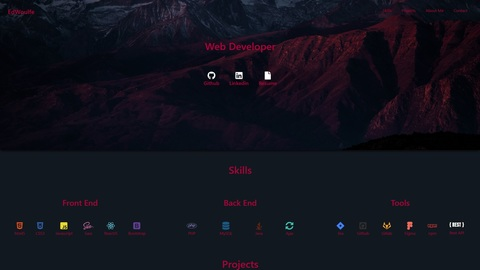
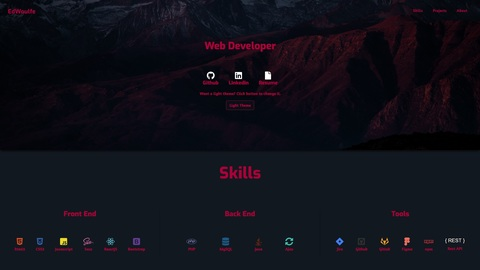
Added new image and gif for personal portfolio, descriptions redone, styling for themes.

diff --git a/src/Components/Projects/projects-container.jsx b/src/Components/Projects/projects-container.jsx
@@ -12,11 +12,15 @@ class ProjectsContainer extends Component {
     projects: {
       bdoProfit: {
         title: "BDO Profit",
-        liveLink: "http://www.bdoprofit.com",
+        liveLink: "https://www.bdoprofit.com",
         codeLink: "https://github.com/ejwoulfe/BDOProfit",
         image: bdoprofitStatic,
-        description:
-          "BDO Profit is a tool to help calculate a recipe's costs and profits.The database was built using webscraping(from a website that gives permission) and holds all of the games recipes.Each recipe has their own materials.The user will enter in the costs of the materials and the sale price of the recipe once crafted.The website will then calculate if its profitable or not.",
+        description: [
+          "BDO Profit is based off the MMORPG Black Desert Online. The website is a tool for players who need help calculating the costs and profits of an ingame recipe or craft.",
+          "The user searches for their desired recipe, either using the search bar or navigating the professions recipe table/database. Once the desired recipe is found a page will display all the required materials and their quanities.",
+          "The user will enter the costs and the market price of the recipe into the corresponding input fields and the website will do all the calculations for them.",
+          "The database was created via webscraping from a website which allows permission. Each recipe has a name, image, submaterials, and the corresponding quantities."
+        ],
         languages: [
           "HTML",
           "CSS",
@@ -32,18 +36,21 @@ class ProjectsContainer extends Component {
         liveLink: "https://pensive-visvesvaraya-5f7d28.netlify.com/",
         codeLink: "https://github.com/ejwoulfe/lol-champions",
         image: lolchampionsStatic,
-        description1:
-          "This website displays data on the games champions. This data consists of the champions stats, abilities, and skins. All taken from the offical Riot API.",
-        description2:
-          " Other data retrieved from the API include: which champions are free to play this week and which champions are being played the most in a given ranked tier.",
+        description: [
+          "LoL Champions is based off the popular MOBA game, League of Legends. This website is used to help a beginner player get a better understanding of the game and its champions.",
+          "It shows which champions are free that week, which of them are being most played in all tiers, and detailed information about any champion.",
+          "All of this information was retrieved by using the offical Riot API."
+        ],
         languages: ["ReactJS", "React-Router", "APIs", "Bootstrap", "Sass"]
       },
       personalPortfolio: {
         title: "Personal Portfolio",
-        liveLink: "http://edwoulfe.com",
+        liveLink: "https://edwoulfe.com",
         codeLink: "https://github.com/ejwoulfe/personal_portfolio",
         image: personalPortfolioStatic,
-        description: "Personal Website to display all my projects and links.",
+        description: [
+          "This is my own personal website, currently used as a hub for all my projects, a bit about me, and contact information. Currently offered in a light or dark theme, Enjoy!"
+        ],
         languages: ["ReactJS", "Bootstrap", "Sass"]
       }
     }

diff --git a/src/Components/Jumbotron/change-color-button.jsx b/src/Components/Jumbotron/change-color-button.jsx
@@ -24,9 +24,11 @@ class ChangeColorTheme extends Component {
         "jumbotron_container"
       ).style.backgroundImage = `url(${lightBackgroundImage})`;
       document.getElementById("jumbotron_container").style.color = "white";
-      document.getElementById("change_theme_button").style.backgroundColor =
-        "white";
-      document.getElementById("change_theme_button").style.color = "#19171C";
+
+      for (var i = 0; i < document.getElementsByClassName("btn").length; i++) {
+        document.getElementsByClassName("btn")[i].style.color = "white";
+        document.getElementsByClassName("btn")[i].style.borderColor = "white";
+      }
     } else {
       document.getElementsByClassName("App")[0].style.backgroundColor =
         "#111820";
@@ -35,10 +37,11 @@ class ChangeColorTheme extends Component {
         "jumbotron_container"
       ).style.backgroundImage = `url(${darkBackgroundImage})`;
       document.getElementById("jumbotron_container").style.color = "#b2123b";
-      document.getElementById("change_theme_button").style.backgroundColor =
-        "#19171C";
 
-      document.getElementById("change_theme_button").style.color = "#b2123b";
+      for (var j = 0; j < document.getElementsByClassName("btn").length; j++) {
+        document.getElementsByClassName("btn")[j].style.borderColor = "#b2123b";
+        document.getElementsByClassName("btn")[j].style.color = "#b2123b";
+      }
     }
   }
   componentDidMount() {
@@ -48,10 +51,11 @@ class ChangeColorTheme extends Component {
     document.getElementsByClassName("App")[0].style.backgroundColor = "#FFFFFF";
     document.getElementsByClassName("App")[0].style.color = "#19171C";
 
-    document.getElementById("jumbotron_container").style.color = "#19171C";
-    document.getElementById("change_theme_button").style.backgroundColor =
-      "white";
-    document.getElementById("change_theme_button").style.color = "#19171C";
+    for (var k = 0; k < document.getElementsByClassName("btn").length; k++) {
+      document.getElementsByClassName("btn")[k].style.color = "white";
+      document.getElementsByClassName("btn")[k].style.borderColor = "white";
+    }
+
     document.getElementById("jumbotron_container").style.color = "white";
   }
 
@@ -66,6 +70,7 @@ class ChangeColorTheme extends Component {
           onClick={this.handleChangeTheme}
           variant="link"
           id="change_theme_button"
+          className="btn"
         >
           {this.state.lightTheme ? "Dark Theme" : "Light Theme"}
         </Button>

diff --git a/src/Components/Projects/projects.scss b/src/Components/Projects/projects.scss
@@ -1,5 +1,3 @@
-$base-color: #b2123b;
-
 #projects_container {
   text-align: center;
   height: auto;
@@ -18,14 +16,17 @@ $base-color: #b2123b;
     clip-path: polygon(0 0, 78% 0, 98% 100%, 0% 100%);
     background-color: #32266f27;
     .btn {
-      background-color: $base-color;
-      border-color: $base-color;
-      color: white;
       margin-top: 20px;
       margin-right: 10px;
       width: 115px;
+      text-decoration: none;
+      background: linear-gradient(to right, #ee90a7 50%, #11182065 50%);
+      background-size: 200% 100%;
+      background-position: right bottom;
+      transition: all 0.5s ease-out;
       &:hover {
-        background-color: #991133;
+        box-shadow: inset 0 0 0 2em var(--hover);
+        background-position: left bottom;
       }
     }
 
@@ -67,7 +68,7 @@ $base-color: #b2123b;
   }
   #personal_portfolio_image {
     &:hover {
-      // background: url("../../Assets/lol_champions.gif") !important;
+      background: url("../../Assets/personal_portfolio.gif") !important;
       background-repeat: no-repeat !important;
       background-position: center !important;
     }

diff --git a/src/Components/Projects/lol-champions.jsx b/src/Components/Projects/lol-champions.jsx
@@ -9,6 +9,9 @@ class LolChampionsProject extends Component {
     const builtWithList = this.props.project.languages.map(language => {
       return <li key={language}>{language}</li>;
     });
+    const description = this.props.project.description.map(paragraph => {
+      return <p key={paragraph}>{paragraph}</p>;
+    });
     return (
       <Fade left>
         <React.Fragment>
@@ -16,10 +19,7 @@ class LolChampionsProject extends Component {
             <div className="col-2 filler_col" />
             <div id="first_project_description" className="col-lg-4 col-xs-6">
               <h4>{this.props.project.title}</h4>
-              <div className="description_container">
-                <p>{this.props.project.description1}</p>
-                <p>{this.props.project.description2}</p>
-              </div>
+              <div className="description_container">{description}</div>
               <div id="buttons_container">
                 <a
                   href={this.props.project.codeLink}

diff --git a/src/Components/Projects/personal-portfolio.jsx b/src/Components/Projects/personal-portfolio.jsx
@@ -9,6 +9,9 @@ class PersonalPortfolioProject extends Component {
     const builtWithList = this.props.project.languages.map(language => {
       return <li key={language}>{language}</li>;
     });
+    const description = this.props.project.description.map(paragraph => {
+      return <p key={paragraph}>{paragraph}</p>;
+    });
     return (
       <Fade left>
         <React.Fragment>
@@ -16,9 +19,7 @@ class PersonalPortfolioProject extends Component {
             <div className="col-2 filler_col" />
             <div id="third_project_description" className="col-lg-4 col-xs-6">
               <h4>{this.props.project.title}</h4>
-              <div className="description_container">
-                <p>{this.props.project.description}</p>
-              </div>
+              <div className="description_container">{description}</div>
               <div id="buttons_container">
                 <a
                   href={this.props.project.codeLink}

diff --git a/src/Components/Projects/bdo-profit.jsx b/src/Components/Projects/bdo-profit.jsx
@@ -9,6 +9,9 @@ class BdoProfitProject extends Component {
     const builtWithList = this.props.project.languages.map(language => {
       return <li key={language}>{language}</li>;
     });
+    const description = this.props.project.description.map(paragraph => {
+      return <p key={paragraph}>{paragraph}</p>;
+    });
     return (
       <Fade right>
         <React.Fragment>
@@ -17,9 +20,7 @@ class BdoProfitProject extends Component {
 
             <div id="second_project_description" className="col-lg-4 col-sm-12">
               <h4>{this.props.project.title}</h4>
-              <div className="description_container">
-                <p>{this.props.project.description}</p>
-              </div>
+              <div className="description_container">{description}</div>
               <div id="buttons_container">
                 <a
                   href={this.props.project.codeLink}

diff --git a/src/Components/Jumbotron/jumbotron.scss b/src/Components/Jumbotron/jumbotron.scss
@@ -8,6 +8,15 @@
   box-shadow: 0px 7px 9px -4px rgba(0, 0, 0, 0.81);
   #change_theme_button {
     text-decoration: none;
+    background: linear-gradient(to right, #ee90a7 50%, #11182065 50%);
+    background-size: 200% 100%;
+    background-position: right bottom;
+    transition: all 0.5s ease-out;
+
+    &:hover {
+      box-shadow: inset 0 0 0 2em var(--hover);
+      background-position: left bottom;
+    }
   }
   #overlay {
     background-color: rgba($color: #000000, $alpha: 0.55);
@@ -33,6 +42,7 @@
         a {
           height: 100%;
           &:hover {
+            color: #ee90a7;
             svg {
               transform: scale(1.4);
             }

diff --git a/src/Components/About/about.jsx b/src/Components/About/about.jsx
@@ -12,8 +12,9 @@ class About extends Component {
             in Computer Science.
           </p>
           <p>
-            During my studies I found my passion for web development. Since then
-            I have been constantly learning about the web and the skills needed.
+            During my studies I discovered my passion for web development. Ever
+            since, I have been studying and practicing in order to expand my web
+            dev skills and knowledge.
           </p>
           <p>
             I am excited to keep learning more, improving my skills and working

diff --git a/src/Components/Navigation/navigation.scss b/src/Components/Navigation/navigation.scss
@@ -28,6 +28,7 @@
         padding: 20px;
         &:hover {
           cursor: pointer;
+          color: #ee90a7;
         }
       }
     }
@@ -65,18 +66,6 @@
       }
     }
   }
-  // #projects_link {
-
-  // }
-  // #skills_link {
-
-  // }
-  // #about_link {
-
-  // }
-  // #contact_link {
-
-  // }
 }
 
 @media (max-width: 830px) {

diff --git a/src/Components/Skills/other.jsx b/src/Components/Skills/other.jsx
@@ -16,7 +16,7 @@ class Other extends Component {
       <FontAwesomeIcon
         icon={faGithubSquare}
         size="2x"
-        style={{ color: "#2d2e2e" }}
+        style={{ color: "#919190" }}
       />,
       <FontAwesomeIcon
         icon={faGitlab}

diff --git a/src/Components/Jumbotron/jumbotron-container.jsx b/src/Components/Jumbotron/jumbotron-container.jsx
@@ -4,7 +4,6 @@ import TitleAndLinks from "./title-and-links";
 import NavigationBar from "../Navigation/navigation-container";
 
 class JumbotronContainer extends Component {
-  state = {};
   render() {
     return (
       <div id="jumbotron_container">

diff --git a/src/Components/About/about.scss b/src/Components/About/about.scss
@@ -1,5 +1,5 @@
 #about_container {
-  margin-bottom: 30px;
+  padding-bottom: 30px;
   h1 {
     padding-left: 10px;
   }
